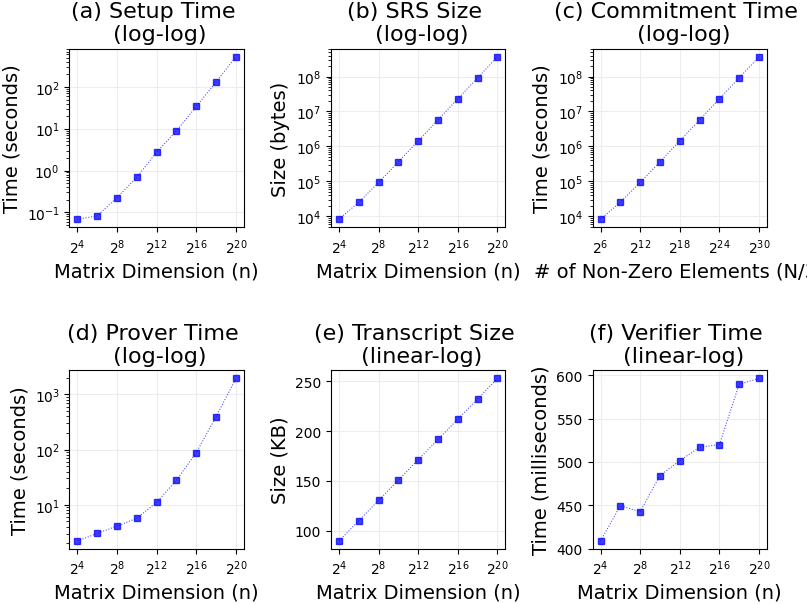
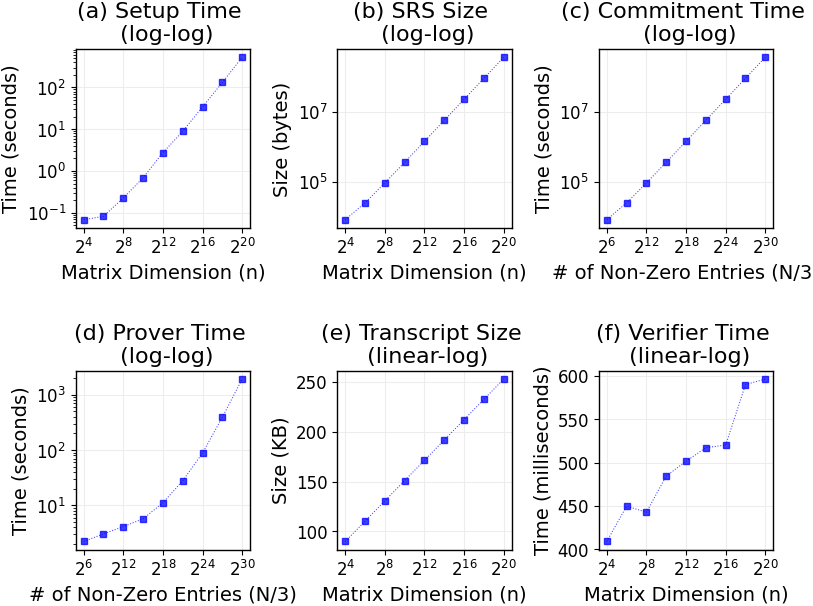
wip

diff --git a/python/fig1_double.py b/python/fig1_double.py
@@ -13,6 +13,8 @@ FIG_SIZE_SINGLE_COLUMN = (10, 5)
 LABEL_SIZE_SINGLE_COLUMN = 14
 # TITLE_SIZE_SINGLE_COLUMN = 16
 TITLE_SIZE_SINGLE_COLUMN = 16
+TICK_SIZE = 12
+SPLINE_WIDTH = 1
 
 # FIG_SIZE_DOUBLE_COLUMN = (16, 4)
 # LABEL_SIZE_DOUBLE_COLUMN = 10
@@ -117,9 +119,17 @@ def plot_scatter():
     ax1.loglog(n_series, setup_time, 
                marker = MARKER_STYLE, markersize = MARKER_SIZE,
                  color = COLOR, alpha = 0.75, 
-                 linestyle = LINE_STYLE, linewidth = LINE_WIDTH)
+                 linestyle = LINE_STYLE, linewidth = LINE_WIDTH,
+                 )
     ax1.grid(True, which="major", ls="-", color='0.93')
     ax1.set_xticks(x_tick, x_tick_label)
+
+    ax1.tick_params(axis='both', which='major', labelsize=TICK_SIZE)
+    ax1.spines['top'].set_linewidth(SPLINE_WIDTH)
+    ax1.spines['right'].set_linewidth(SPLINE_WIDTH)
+    ax1.spines['bottom'].set_linewidth(SPLINE_WIDTH)
+    ax1.spines['left'].set_linewidth(SPLINE_WIDTH)
+   
 
     ax2.set_xlabel('Matrix Dimension (n)', size = LABEL_SIZE_SINGLE_COLUMN,
                    labelpad=4)
@@ -129,9 +139,15 @@ def plot_scatter():
                  color = COLOR, alpha = 0.75, 
                  linestyle = LINE_STYLE, linewidth = LINE_WIDTH)
     ax2.grid(True, which="major", ls="-", color='0.93')
-    ax2.set_xticks(x_tick, x_tick_label)
+    ax2.set_xticks(x_tick, x_tick_label, size = TICK_SIZE)
 
-    ax3.set_xlabel('# of Non-Zero Elements (N/3)', size = LABEL_SIZE_SINGLE_COLUMN,
+    ax2.tick_params(axis='both', which='major', labelsize=TICK_SIZE)
+    ax2.spines['top'].set_linewidth(SPLINE_WIDTH)
+    ax2.spines['right'].set_linewidth(SPLINE_WIDTH)
+    ax2.spines['bottom'].set_linewidth(SPLINE_WIDTH)
+    ax2.spines['left'].set_linewidth(SPLINE_WIDTH)
+
+    ax3.set_xlabel('# of Non-Zero Entries (N/3)', size = LABEL_SIZE_SINGLE_COLUMN,
                    labelpad=4)
     ax3.set_ylabel('Time (seconds)', size = LABEL_SIZE_SINGLE_COLUMN)  
     ax3.loglog(capital_n_series, srs_size, 
@@ -139,18 +155,30 @@ def plot_scatter():
                  color = COLOR, alpha = 0.75, 
                  linestyle = LINE_STYLE, linewidth = LINE_WIDTH)
     ax3.grid(True, which="major", ls="-", color='0.93')
-    ax3.set_xticks(x_capital_tick, x_capital_tick_label)
+    ax3.set_xticks(x_capital_tick, x_capital_tick_label, size = TICK_SIZE)
 
-    ax4.set_xlabel('Matrix Dimension (n)', size = LABEL_SIZE_SINGLE_COLUMN,
+    ax3.tick_params(axis='both', which='major', labelsize=TICK_SIZE)
+    ax3.spines['top'].set_linewidth(SPLINE_WIDTH)
+    ax3.spines['right'].set_linewidth(SPLINE_WIDTH)
+    ax3.spines['bottom'].set_linewidth(SPLINE_WIDTH)
+    ax3.spines['left'].set_linewidth(SPLINE_WIDTH)
+
+    ax4.set_xlabel('# of Non-Zero Entries (N/3)', size = LABEL_SIZE_SINGLE_COLUMN,
                    labelpad=4)
     ax4.set_ylabel('Time (seconds)', size = LABEL_SIZE_SINGLE_COLUMN)  
-    ax4.loglog(n_series, prover_time, 
+    ax4.loglog(capital_n_series, prover_time, 
                marker = MARKER_STYLE, markersize = MARKER_SIZE,
                  color = COLOR, alpha = 0.75, 
                  linestyle = LINE_STYLE, linewidth = LINE_WIDTH)
     ax4.grid(True, which="major", ls="-", color='0.93')
-    ax4.set_xticks(x_tick, x_tick_label)
+    ax4.set_xticks(x_capital_tick, x_capital_tick_label, size = TICK_SIZE)
     
+    ax4.tick_params(axis='both', which='major', labelsize=TICK_SIZE)
+    ax4.spines['top'].set_linewidth(SPLINE_WIDTH)
+    ax4.spines['right'].set_linewidth(SPLINE_WIDTH)
+    ax4.spines['bottom'].set_linewidth(SPLINE_WIDTH)
+    ax4.spines['left'].set_linewidth(SPLINE_WIDTH)
+
     ax5.set_xlabel('Matrix Dimension (n)', size = LABEL_SIZE_SINGLE_COLUMN,
                    labelpad=4)
     ax5.set_ylabel('Size (KB)', size = LABEL_SIZE_SINGLE_COLUMN)  
@@ -159,8 +187,13 @@ def plot_scatter():
                  color = COLOR, alpha = 0.75, 
                  linestyle = LINE_STYLE, linewidth = LINE_WIDTH)
     ax5.grid(True, which="major", ls="-", color='0.93')
-    ax5.set_xticks(x_tick, x_tick_label)
+    ax5.set_xticks(x_tick, x_tick_label, size = TICK_SIZE)
 
+    ax5.tick_params(axis='both', which='major', labelsize=TICK_SIZE)
+    ax5.spines['top'].set_linewidth(SPLINE_WIDTH)
+    ax5.spines['right'].set_linewidth(SPLINE_WIDTH)
+    ax5.spines['bottom'].set_linewidth(SPLINE_WIDTH)
+    ax5.spines['left'].set_linewidth(SPLINE_WIDTH)
 
     ax6.set_xlabel('Matrix Dimension (n)', size = LABEL_SIZE_SINGLE_COLUMN,
                    labelpad=4)
@@ -170,8 +203,13 @@ def plot_scatter():
                  color = COLOR, alpha = 0.75, 
                  linestyle = LINE_STYLE, linewidth = LINE_WIDTH)
     ax6.grid(True, which="major", ls="-", color='0.93')
-    ax6.set_xticks(x_tick, x_tick_label)
+    ax6.set_xticks(x_tick, x_tick_label, size = TICK_SIZE)
 
+    ax6.tick_params(axis='both', which='major', labelsize=TICK_SIZE)
+    ax6.spines['top'].set_linewidth(SPLINE_WIDTH)
+    ax6.spines['right'].set_linewidth(SPLINE_WIDTH)
+    ax6.spines['bottom'].set_linewidth(SPLINE_WIDTH)
+    ax6.spines['left'].set_linewidth(SPLINE_WIDTH)
     # fig.tight_layout()
     # fig.legend(loc='upper center', bbox_to_anchor=(0.5, 1.), ncol=5)
 
